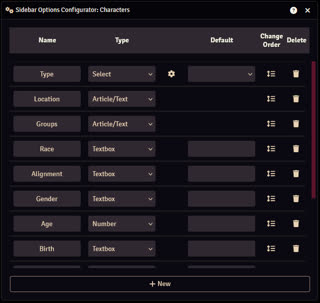
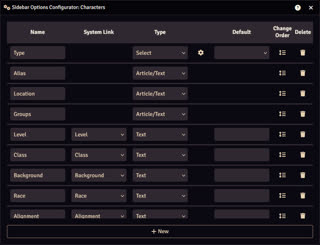
updated documentation for v1.0.3

diff --git a/docs/changelog.md b/docs/changelog.md
@@ -1,6 +1,86 @@
 Changes between module versions are documented here.<br>
 
+??? changelog "v1.0.3 - 26-10-2025"
+    ## Highlights
+    ### UI Changes/Additions
+    It is now possible to change the icon, name and order of the tabs of the main application. The name and icon change will be applied throughout all of Worldbuilder (e.g. article inserts will display the new icon). The position of the tabs can also be changed so they're on the left, or the top of the application. See [here](./settings.md#tab-configuration).
+
+    Articles have new page navigation options. Besides the buttons that were already there, you can instead choose to display a table of contents that will be automatically populated with pages and headers of the article. You can click on the pages and headers in the table of contents to navigate to the selected page/header. See [here](./settings.md#article-page-navigation).
+
+    ### Improved Gaming System Integration
+    Sidebar options can now be configured to automatically parse specific data from Actor and Item documents (e.g. an actor's age, item's weight, etc). This can be configured that changes in the document are automatically updated in the article, and vice versa. See [here](./articles/articles.md#system-link) for more information on how to configure this. Worldbuilder will also do a better job at converting biographies, descriptions and GM notes into pages. 
+
+    The amount of support depends on your gaming system. Support has been specifically added for the following systems, but others will probably also work (partially): DnD5e, PF1, PF2e, SWADE, WFRP4E, Starfinder, DC20, Forbidden Lands, Call of Cthulhu 7, Simple Worldbuilding.
+
+    ### Improved Drag & Drop
+    Article and document button inserts can now be dragged onto other articles or documents. You can also drag articles onto, for example, journal entries, to create a button that will open the article.
+
+    Dragging actors from an article onto the canvas will create a token, dragging other documents or articles onto the canvas will create a map note that opens that document/article.
+
+    ### Searching for Articles Using their Content
+    You can now search for articles based on the content of their pages using `content:"search term"`.<br>
+    For example, if you want to find articles that contain the text "the old tavern" on one of their pages, you can search using `content:"the old tavern."`.
+
+    ## Full Changelog
+    ### Additions
+    #### UI
+    * You can now change the icon, name and order of the tabs of the main application.
+    * The tabs of the main application can now be moved to the top or left.
+    * Added configurable article page navigation. You can now choose between:
+    * Buttons: Buttons at the top that open a page when clicked (as it was previously)
+    * Table of Contents - Column: A table of contents that is displayed as a column next to the page. Clickable to open pages or navigate to a page header
+    * Table of Contents - Sidebar: Similar to the Column option, but the table of contents is displayed as a sidebar on the left of the article
+
+    #### Gaming System Integration
+    Support has been added for the following systems, but other system are probably partially supported as well: DnD5e, PF1, PF2e, SWADE, WFRP4E, Starfinder, DC20, Forbidden Lands, Call of Cthulhu 7, Simple Worldbuilding.
+
+    * The way data can be gotten from Actor and Item documents has been improved. Worldbuilder will attempt to find out which data from these documents can be relevant to be displayed in the article sidebar. Things like Alignment, Age, Race, Class, etc. When importing a document into Worldbuilder, the relevant sidebar fields will be automatically populated and linked to the document. This means that, if configured, changes in an actor can be reflected in a linked article (e.g. if "Hair Color" is changed to "Brown" in the document, the article to also display "Brown").
+    * The Characters and Objects "Sidebar Options Configurator" has a new System Link option, to allow you to configure which document data will be used for that sidebar option.
+    * In the sidebar of articles that have a document linked, options that have a System Link configured will display an icon to either link that option to the document, or to use a custom input.
+    * When importing actors and items, automatic creation of articles pages has been improved (biography page, gm notes page, etc).
+
+    #### Drag & Drop
+    * You can now drag & drop article/document buttons from one article onto another article or onto a document (such as journal entries, character sheets, etc).
+    * Dragging article/document buttons from an article onto the canvas will create a token or map note.
+    * When importing a document, the ownership of that document is also applied to the article.
+    * (Foundry v13 only) Linked documents now have a Worldbuilder icon in their header where you can open the relevant articles. Not all systems might be fully supported.
+    * You can now search articles by their content: `content:"search term"`
+
+    ### Fixes
+    * Fixed the article button insert configuration for Foundry v13
+    * Changing the "Click" for map items would throw an error, preventing changes from being saved, this is now fixed
+    * Fixed issue where it sometimes wasn't possible to add a second value to an "Article/Text" sidebar option
+    * Tags App: 
+    * Parent & sub-tag context menu no longer shows up when in play mode
+    * Parent & sub-tag context menu no longer displays the selected tag
+    * Tags can no longer be made their own parent or sub-tag
+    * Fixed sub-tag name (was Sub-Tabs)
+
+    ### Other Changes
+    * In the Options Configurator, the "Textbox" type has been renamed to "Text"
+    * Article sidebar option visibility has been improved in light mode when in Play mode
+    * Removed text shadow in Options Configurator and Backup Manager headers to improve readability in light mode
+    * When an article is in edit mode, the hints for "Title" and "Linked" have been replaced by tooltips
+    * Replace the "Edit Sidebar Options" button in the article sidebar with a small icon
+    * Moved the "Display Tab Titles" setting to the new "User Interface" category
+    * Merged "tabVisibility" setting into the "tabConfig" setting
+    * Merged "displayTabTibles" setting into the "ui" setting
+    * Changed the article scroll behavior: Title and linked documents will stay visible, scrolling happens below that.
+
 ??? changelog "v1.0.2 - 18-10-2025"
+    ## Highlights
+    ### More ways to open Worldbuilder
+    * A control button (on the left side of the screen) has been added to open Worldbuilder.
+    * A configurable hotkey has been added to open Worldbuilder (`Alt+W` by default).
+
+    ### More control over what players can see
+    * It was already possible to make parts of articles secret or hide them, but this version expands on that. It is now possible to make article pages and images secret, or hide them from everyone. Similarly, you can now hide the entire sidebar, or make it a secret.
+    * You have now greater control over which tabs in the Worldbuilder application are visible. Previously you could either show or hide them for everyone, but you can now hide them only for players, or hide them for players if they do not have at least 1 relevant article that they have Limited or higher ownership over.
+
+    ### Data sharing between worlds
+    * It is now possible for different worlds on the same Foundry server to use the same Worldbuilder data. If, for example, you run multiple "Curse of Strahd" games, you can have them share the same data so you don't have to recreate the same articles for each world. More info [here](https://materialfoundry.github.io/Worldbuilder/dataManagement/#data-id).
+
+    ## Full Changelog
     ### Additions
     * You can now open Worldbuilder articles through map notes. Dropping articles on a scene will automatically create a map note.
     * You can now drag Foundry documents (actors, items, etc) onto a "Article" or "Article/Text" sidebar option.

diff --git a/docs/articles/articles.md b/docs/articles/articles.md
@@ -47,28 +47,13 @@ Each article has the following header buttons (at the top of the article):
 You can create, delete or duplicate an article in one of the [article tabs](../mainApplication/articles.md) of the main application.
 
 <b>Creating Articles</b><br>
-Click the "+ Create New" button or use the [document import](#document-import) feature.
+Click the "+ Create New" button or use the [document import](./documentImport.md) feature.
 
 <b>Deleting Articles</b><br>
 Right-click an article and press the ":fontawesome-solid-trash: Delete" button.
 
 <b>Duplicating Articles</b><br>
 Right-click an article and press the ":fontawesome-solid-copy: Duplicate" button.
-
-#### Document Import
-It is possible to create new articles by importing Foundry documents (actors, scenes, items, etc) into Worldbuilder. This is as simple as dragging the document from the Foundry sidebar onto the Worldbuilder application. This will open a popup to ask you the article type that the document should be imported as, click Import to create the new article.
-
-Worldbuilder will attempt to fill in as much of the article as possible. What exactly is filled in depends on the document type, your gaming system, and your configured [sidebar options](#sidebar-options):
-
-| Document Type | Corresponding Article Type | Filled data |
-|---------------|----------------------------|-------------|
-| Actor         | Characters                    | Title: Actor's name<br>Linked: Linked to actor<br>Pages\*: Biography page from character sheet<br>Images: Actor's image<br>Sidebar Options\*\*: From actor data |
-| Scene         | Locations                     | Title: Scene's name<br>Linked: Linked to scene<br>Pages: From scene's linked journal entry<br>Images: Scene's background image |
-| Item          | Object                        | Title: Item's name<br>Linked: Linked to item<br>Pages*: Item's description<br>Images: Item's image |
-| Journal       | Other                         | Title: Journal's name<br>Linked: Linked to journal<br>Pages: Journal pages |
-
-\* Depending on your gaming system, Worldbuilder may or may not be able to parse text from documents to generate pages. This has been tested on DnD5e and PF2E.<br>
-\*\* Depending on your gaming system, Worldbuilder may or may not be able to parse select options from documents. It will attempt to match the name of a sidebar option with a key within the document's `system` object. This will only work for some sidebar options. Better support will be added in the future.
 
 ### Opening Articles
 You can open an article in one of the [article tabs](../mainApplication/articles.md) of the main application, by clicking one of the articles.
@@ -138,7 +123,7 @@ The main section of articles contain the title of the article, (optionally) link
 You can edit the title of the article when the article is in [edit mode](#playedit-mode).
 
 ### Linked Documents
-It is possible to link Foundry documents (Actors, Scenes, etc) to a Worldbuilder article. Linked documents show up at the top of the article, clicking them will open the relevant sheet of that document.
+It is possible to link Foundry documents (Actors, Scenes, etc) to a Worldbuilder article. Linked documents show up at the top of the article, clicking them will open the relevant sheet of that document. Depending on how the [sidebar options](#sidebar-options) are configured, some sidebar options might be automatically populated and updated.
 
 You can change which documents are linked by going into [edit mode](#playedit-mode) and dragging a document (from the Foundry sidebar) onto the box, or deleting it by clicking on the :fontawesome-solid-trash: icon of existing documents.
 
@@ -204,7 +189,7 @@ The way you change an option's value depends on the [type](./sidebarOptions.md#t
 
 | Option Type   | How to Change Value                                                                                           |
 |---------------|---------------------------------------------------------------------------------------------------------------|
-| Textbox       | Enter in a new value.                                                                                         |
+| Text          | Enter in a new value.                                                                                         |
 | Number        | Enter in a new value.                                                                                         |
 | Select        | Select a value from the drop-down selector.                                                                   |
 | Article       | Dragging an article from the [main application](../mainApplication/mainApplication.md) into the option's box. |
@@ -218,3 +203,16 @@ You can hide or unhide an option by clicking the :fontawesome-solid-eye: icon.
 
 <b>Making an option a secret</b><br>
 You can make an option a secret by clicking the :fontawesome-solid-key: icon.
+
+### System Link
+Depending on your gaming system, Worldbuilder can link some "Text" or "Number" sidebar options to data from a [linked document](#linked-documents). This is only available for Character and Object articles when they are linked to actor or item documents.
+
+For example, it is possible to link the "age" of an actor to a corresponding "Age" sidebar option. This can have the following effects:
+
+* When the data of the actor is changed in its character sheet, the sidebar option will also be updated
+* When the sidebar option is changed, the actor is also updated (not all linked data supports this)
+* When an actor is [imported](./documentImport.md), the sidebar option will be automatically populated
+
+It is required to assign a System Link value to a sidebar option to enable this feature, you can do so in the [sidebar options configuration](./sidebarOptions.md). When a System Link is assigned and a document is linked to the article, you can enable or disable the link by clicking the :octicons-link-16: icon.
+
+Depending on the configured System Link, it may or may not be possible to manually change the sidebar option's value. If a linked value is changed in the article, its corresponding document will also be updated, and vice-versa.

diff --git a/docs/settings.md b/docs/settings.md
@@ -3,9 +3,17 @@ The settings tab of the [main application](./mainApplication/mainApplication.md)
 ## Tab Configuration
 <div class="imgContainer"><img src="../img/settings/tabConfiguration.png"></div>
 
-The Tab Configuration section allows you to configure the tabs of the [main application](./mainApplication/mainApplication.md), and opening the [sidebar options configuration](./articles/sidebarOptions.md) for the relevant articles (:material-format-columns:).
+The Tab Configuration section allows you to configure the tabs of the [main application](./mainApplication/mainApplication.md), and it allows you to open the [sidebar options configuration](./articles/sidebarOptions.md) for the relevant articles (:material-format-columns:).
 
-You can configure which tabs are visible to whom by clicking the right-most icon, this will change the visibility mode:
+#### Tab Name
+You can change the name of a tab by click on one of the names. This allows you to input a new name.
+
+#### Tab Icon
+You can change the icon of a tab by clicking on one of the existing icons. This will open the [Icon Picker](./articles/pages.md#icon-picker).<br>
+Tabs must have an icon, so selecting the empty icon will do nothing.
+
+#### Tab Visibility
+You can configure which tabs are visible to whom by clicking the visibility icon, this will change the visibility mode:
 
 * :fontawesome-solid-eye: Visible: The tab will be visible to all players
 * :fontawesome-solid-key: GM Only: The tab will only be visible to gamemasters
@@ -14,29 +22,61 @@ You can configure which tabs are visible to whom by clicking the right-most icon
 
 The visibility of the settings tab cannot be changed. It is not visible to players and always visible to gamemasters.
 
-<b>Display Tab Titles</b><br>
-When enabled, the titles of tabs will be displayed.
-
 <div class="clear"></div>
+
+#### Tab Order
+You can reorder tabs by dragging the right-most icon.
+
+## User Interface
+<div class="imgContainer"><img src="../img/settings/userInterface.png"></div>
+The user interface sections allows some configuration over how Worldbuilder looks and handles.
+
+#### Display Tab Titles
+When enabled, the titles of tabs will be displayed.
+<div class="clear"></div>
+
+### Tab Navigation
+With the Tab Navigation setting you can configure where the buttons to navigate throught the main application are located. Either on the right, the left, or the top.
+<div class="imgContainer center">
+    <img src="../img/settings/tabNavigation.png">
+    <p class="caption">The different tab navigation options, from left to right: "Left", "Top" and "Right".</p>
+</div>
+
+### Article Page Navigation
+When articles get bigger and have multiple pages, a method is necessary to navigate through the articles.<br>
+Worldbuilder offers 3 options;
+
+* <b>Table of Contents - Sidebar</b>: A table of contents is located as a sidebar on the left of the article.
+* <b>Table of Contents - Column</b>: A table of contents is located within the article window, as a column on the left.
+* <b>Buttons</b>: Page buttons are located on the top.
+
+You can navigate to a different page by pressing one of the page buttons, or by pressing the page in the table of contents. When one of the table of contents options is selected, pressing a page will scroll the article to the top of that page.<br>
+The page headers in the table of contents are automatically generated, and pressing them will scroll the page to that header.
+
+<div class="imgContainer center">
+    <img src="../img/settings/articlePagenavigation.png">
+    <p class="caption">The different article page navigation options, from left to right: "Table of Contents - Sidebar", "Table of Contents - Column" and "Buttons".</p>
+</div>
 
 ## Data Management
 <div class="imgContainer"><img src="../img/settings/dataManagement.png"></div>
 
 The Data Management section handles settings related to data management.
 
-<b>Force Key Name (only on [the Forge](https://forge-vtt.com/))</b><br>
+#### Force Key Name
+Only on [the Forge](https://forge-vtt.com/).<br>
 Enter in the key name of your Worlbuilder folder to share the data with your players. See [here](./gettingStarted.md#the-forge) for more info.
 
-<b>Backups</b><br>
+#### Backups
 See [here](./dataManagement.md#automatic-backups).
 
-<b>Import/Export Data</b><br>
+#### Import/Export Data
 See [here](./dataManagement.md#importing-exporting).
 
-<b>Clear Data</b><br>
+#### Clear Data
 Opens a dialog where you can select data to be cleared.
 
-<b>Data Id</b><br>
+#### Data Id
 Data id sets which Worldbuilder dataset to use. See [here](./dataManagement.md#data-id).
 
 <div class="clear"></div>
@@ -44,13 +84,13 @@ Data id sets which Worldbuilder dataset to use. See [here](./dataManagement.md#d
 ## Updates
 <div class="imgContainer"><img src="../img/settings/updates.png"></div>
 
-<b>Current Version</b><br>
+#### Current Version
 The version of Worldbuilder that you have installed.
 
-<b>Latest Version</b><br>
+### Latest Version
 The latest version of Worldbuilder that is available.
 
-<b>Update Notifications</b><br>
+#### Update Notifications
 Enable or disable notifications when a Worldbuilder update is available.
 
 <div class="clear"></div>

diff --git a/docs/mainApplication/searching.md b/docs/mainApplication/searching.md
@@ -7,10 +7,10 @@ Each separate word is a separate search term, so you will get results if any of 
 Search terms are case-insensitive.
 
 <b>Examples:</b><br>
-Searching `t` will result in all articles that contain "t" in their name.<br>
-Searching `tavern` will result in all articles that contain "tavern" in their name.<br>
-Searching `the old tavern` will result in articles that contain "the", "old" or "tavern" in their name.<br>
-Searching `"the old tavern"` will result in articles that contain "the old tavern" in their name.
+Searching `t` will result in all articles that have "t" in their name.<br>
+Searching `tavern` will result in all articles that have "tavern" in their name.<br>
+Searching `the old tavern` will result in articles that have "the", "old" or "tavern" in their name.<br>
+Searching `"the old tavern"` will result in articles that have "the old tavern" in their name.
 
 ## Searching by Tag
 You can search for articles that have a certain tag.<br>
@@ -24,8 +24,19 @@ Searching `tag:"house lenora"` will result in articles that have the "house leno
 Searching `tag:[house "house lenora"]` will result in articles that have the "house" or "house lenora" tag.
 
 <b>Wrong examples:</b><br>
-Searching `tag:hou` will <u>not</u> result in articles that have the "house" tag, articles that have the "hou" tag.<br>
+Searching `tag:hou` will <u>not</u> result in articles that have the "house" tag, but articles that have the "hou" tag.<br>
 Searching `tag:house lenora` will <u>not</u> result in articles that have the "house lenora" tag, but articles that either have the "house" tag or have "lenora" in their name.<br>
+
+## Searching by Content
+You can search for articles based on their content (what's written in their pages).<br>
+This is very similar to [searching by tag](#searching-by-tag), except that you replace `tag:` with `content:`.
+
+<b>Examples:</b><br>
+Searching `content:tavern` will result in all articles that have the word "tavern" on one of their pages.<br>
+Searching `content:"the old tavern"` will result in all articles that have the words "the old tavern" (in this exact order) on one of their pages.
+
+<b>Wrong examples:</b><br>
+Searching `content:old tavern` will <u>not</u> result in articles that have the words "the old tavern" on one of their pages. Instead it will return articles that have the word "old" on one of their pages <u>and</u> articles that have "tavern" in their name.
 
 ## Searching by Sidebar Option
 [Sidebar options](../articles/sidebarOptions.md) are the configurable settings in the [sidebar](../articles/articles.md#sidebar) of articles.<br>

diff --git a/docs/articles/documentImport.md b/docs/articles/documentImport.md
@@ -1,0 +1,22 @@
+It is possible to create new articles by importing Foundry documents (actors, scenes, items, etc) into Worldbuilder. This is as simple as dragging the document from the Foundry sidebar onto the Worldbuilder application. This will open a popup to ask you the article type that the document should be imported as, click Import to create the new article.
+
+Worldbuilder will attempt to fill in as much of the article as possible. What exactly is filled in depends on the document type, your gaming system, and your configured [sidebar options](./sidebarOptions.md).
+
+| Document Type | Corresponding Article Type | Filled data |
+|---------------|----------------------------|-------------|
+| Actor         | Characters                    | Title: Actor's name<br>Linked: Linked to actor<br>Pages: See [here](#pages)<br>Images: Actor's image<br>Sidebar Options: See [here](#sidebar-data) |
+| Scene         | Locations                     | Title: Scene's name<br>Linked: Linked to scene<br>Pages: From scene's linked journal entry<br>Images: Scene's background image |
+| Item          | Object                        | Title: Item's name<br>Linked: Linked to item<br>Pages: See [here](#pages)<br>Images: Item's image<br>Sidebar Options: See [here](#sidebar-data) |
+| Journal       | Other                         | Title: Journal's name<br>Linked: Linked to journal<br>Pages: Journal pages |
+
+## Gaming System Support
+Worldbuilder will attempt to automatically parse system-specific data from Actors and Items.
+
+### Sidebar Data
+Actors and Items have a lot of data, such as an actor's age, eye color, height, weight, etc. Worldbuilder will attempt to extract this data from the document to automatically add this to the article's sidebar.
+
+For this to function, it is required to configure the "System Link' in the Characters and/or Object's [sidebar options](./sidebarOptions.md).<br>
+Sidebar options with a configured System Link will be populated and automatically linked.
+
+### Pages
+Based on your gaming system and the type of document, Worldbuilder will attempt to import the document's description, biography and/or GM notes. These might appear as separate pages.

diff --git a/docs/quickStart.md b/docs/quickStart.md
@@ -25,7 +25,7 @@ We will create a basic Character article, but the following will apply to all ar
 ### Creating an Article
 1. Open the Characters tab (:fontawesome-solid-user:) of the main application, you now have 2 options to create an article, try them both:
     1. Click the Create New button to create a new article. This article will be empty.
-    2. Drag an actor from the Actors sidebar tab onto the Worlbuilder application, in the popup make sure Article Type is set to Characters, and press Import. This will create a new article that will be pre-filled (as far as Worldbuilder is able to fill it, see [here](./articles/articles.md#document-import) for more info).
+    2. Drag an actor from the Actors sidebar tab onto the Worlbuilder application, in the popup make sure Article Type is set to Characters, and press Import. This will create a new article that will be pre-filled (as far as Worldbuilder is able to fill it, see [here](./articles/documentImport.md) for more info).
 <div class="imgContainer"><img src="../img/article/newArticle.png"></div>
 2. A article window should have opened. In the header of the article you can switch between Play and Edit mode by clicking the Change Mode slider (<img src="../img/article/playEditButton.png">). Switch it to Edit mode (the slider will turn green).
 3. Change the name/title of the article by writing something in the Title field.

diff --git a/docs/articles/sidebarOptions.md b/docs/articles/sidebarOptions.md
@@ -1,7 +1,7 @@
 <div class="imgContainer"><img src="../../img/article/sidebarConfig.png"></div>
 The Options Configurator configures which options will be available in the [sidebar](./articles.md#sidebar) of articles.
 
-The sidebar options for each article type can be configured independently.
+The sidebar options for each article type are configured independently.
 
 You can open the Sidebar Options Configuratior in the following ways:
 
@@ -11,10 +11,17 @@ You can open the Sidebar Options Configuratior in the following ways:
 ### Name
 The name of the option as it will appear in the sidebar.
 
+### System Link
+Only available for Character and Object articles.
+Select which system-specific document data should be assigned to the sidebar option.<br>
+The available options will depend on your gaming system.
+
+See [here](./articles.md#system-link) for more info.
+
 ### Type
 The type of the option, you can select one of the following types:
 
-* <b>Textbox:</b> Accepts any kind of text input.
+* <b>Text:</b> Accepts any kind of text input.
 * <b>Number:</b> Accepts numeric inputs.
 * <b>Select:</b> Allows the selection of pre-defined values.
 * <b>Article:</b> Accepts Worldbuilder articles by dragging them from the [main application](../mainApplication/mainApplication.md) into the option's box.

diff --git a/docs/articles/pages.md b/docs/articles/pages.md
@@ -1,9 +1,10 @@
 <div class="imgContainer"><img src="../../img/article/pages.png"></div>
 Each article can contain one or more pages, which are essentially text documents.
 
-The pages of an article will show up below the article's title (or linked documents section, if configured). The displayed page is highlighted, and you can navigate to another page by pressing the page's title.
+Depending on how "Article Page Navigation" is configured in the [settings](../settings.md#article-page-navigation), the pages of an article will either show up below the article's title (or linked documents section, if configured), or as part of a table of contents.<br>
+You can navigate to another page by pressing the page's button or by clicking on the page in the table of contents.<br>
 
-If there is only 1 page, the page title will not be displayed.
+If there is only 1 page, page buttons will not be displayed.
 
 To make any changes to pages the article will need to be in [edit mode](./articles.md#playedit-mode).
 <div class="clear"></div>

diff --git a/docs/mainApplication/articles.md b/docs/mainApplication/articles.md
@@ -16,7 +16,7 @@ You can configure how the articles are sorted by pressing the relevant button ne
 You can open an article by clicking on the article. This will open the [article window](../articles/articles.md).
 
 ## Creating New Articles
-You can create new articles by clicking the "+ Create New" button, next to the search bar, or use the [document import](../articles/articles.md#document-import) feature.
+You can create new articles by clicking the "+ Create New" button, next to the search bar, or use the [document import](../articles/documentImport.md) feature.
 
 ## Deleting Articles
 Right-click an article and press the ":fontawesome-solid-trash: Delete" button.

diff --git a/docs/mainApplication/mainApplication.md b/docs/mainApplication/mainApplication.md
@@ -29,3 +29,7 @@ The application can be divided into 3 parts:
     * <b>Widgets:</b> Similar to the article tabs, but for [widgets](../widgets/widgets.md).
     * <b>Tags:</b> Similar to the article tabs, but displays [Tags](../tags.md).
     * <b>[Settings](../settings.md):</b> Used for configuring the module.
+
+## Customization
+There are some customization options for the main application, such as changing where the tabs are located (right, left, or top of the app), or the icons, names and order of the tabs.<br>
+You can configure this in the [settings tab](../settings.md).
